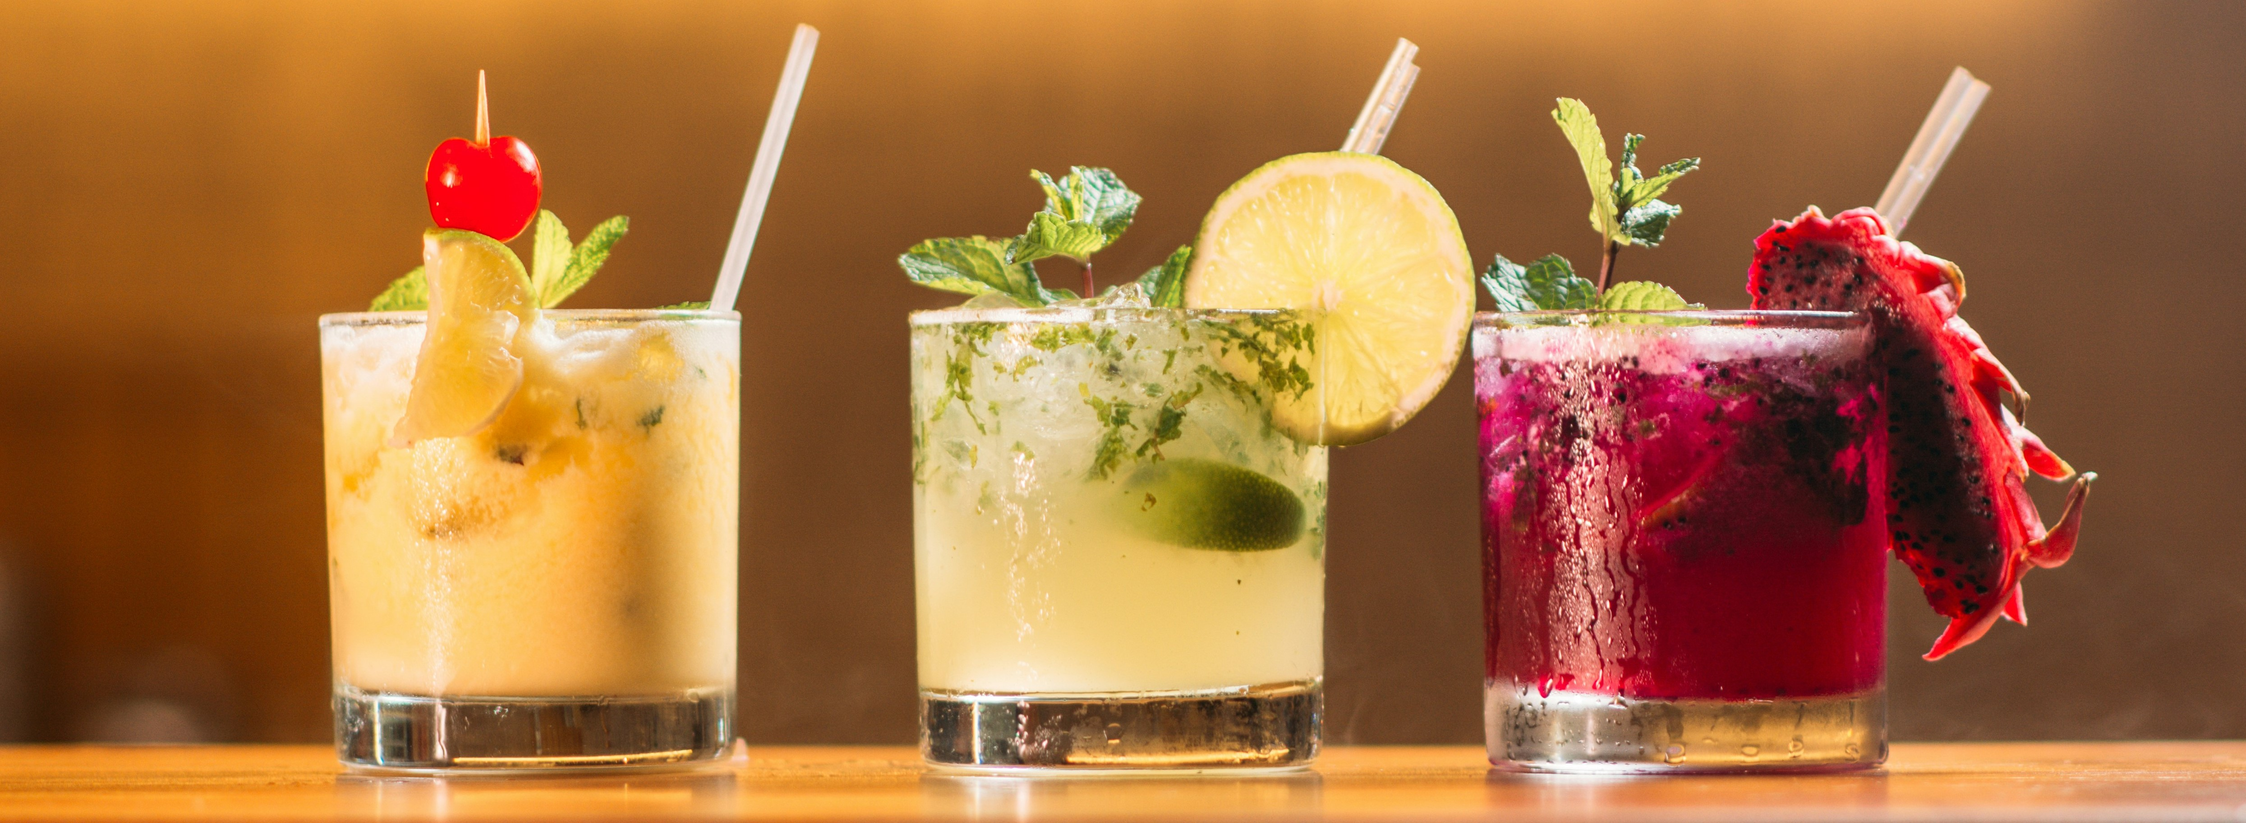
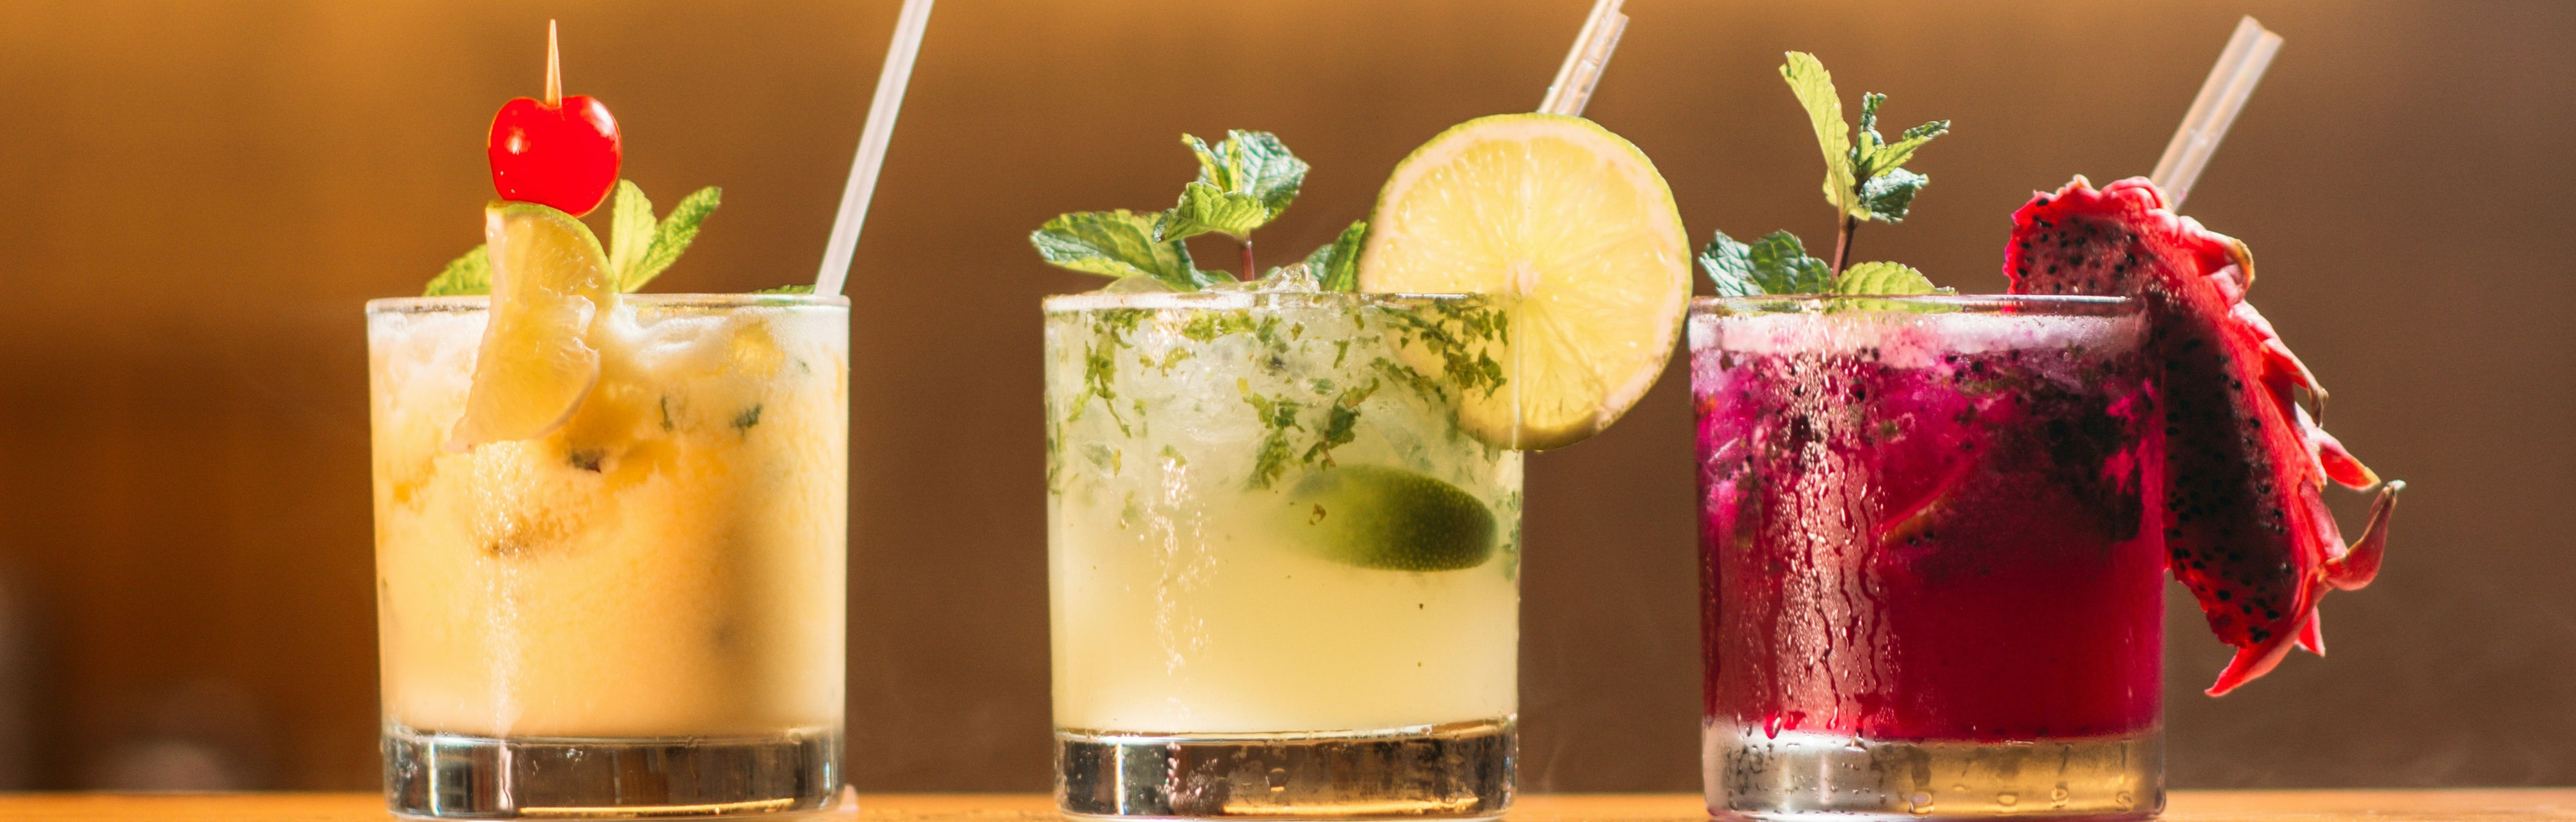
1.0.5
padronizando o tamanho das imagens

diff --git a/index.html b/index.html
@@ -69,7 +69,7 @@
             
             <section id="sec-id-espetinho" class="sec-espetinho secs">
                 <div class="div-img">
-                    <img src="./img/espetinho.jpg" alt="">
+                    <img src="./img/espetinhos.jpg" alt="">
                 </div>
                 <h2 class="title">Espetinhos</h2>
                 <div id="itens-espetinho" class="itens-menu">
@@ -81,7 +81,7 @@
             
             <section id="sec-id-sem-alcool" class="sec-sem-alcool secs">
                 <div class="div-img">
-                    <img src="./img/sucos.jpg" alt="">
+                    <img src="./img/suco.jpg" alt="">
                 </div>
                 <h2 class="title">Bebidas sem álcool</h2>
                 <div id="itens-sem-alcool" class="itens-menu">
